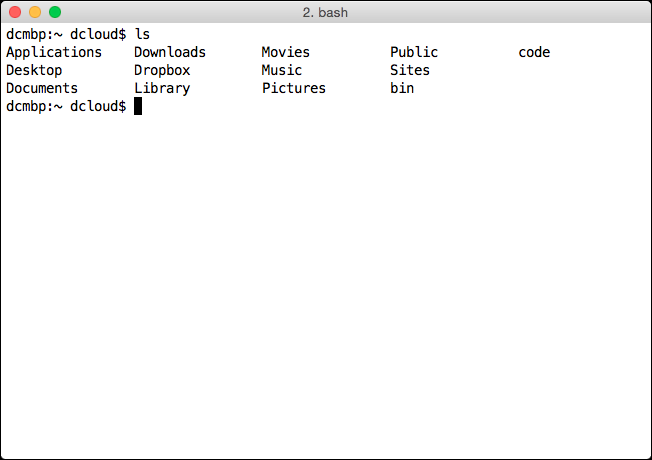
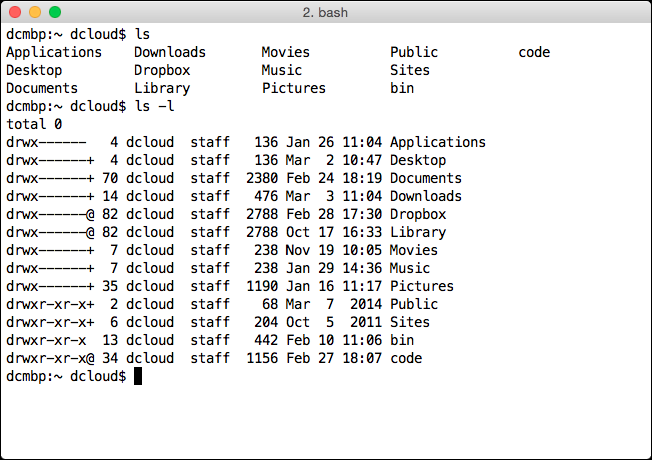
Create a section on using the keyboard and rename others to place them later in the sequence. Update some related images.

Changed region(s): [[0.0, 0.2435, 0.7669, 0.8522], [0.184, 0.213, 0.2761, 0.2435]]

diff --git a/command-line/03-using-the-keyboard.md b/command-line/03-using-the-keyboard.md
@@ -1,0 +1,46 @@
+# Using the keyboard
+
+The keyboard is essential to navigating and controlling the command line. In fact, your mouse or trackpad is probably of little use in the terminal. We'll go over some of basic keyboard shortcuts that get used frequently when navigating or running commands in the terminal. For a more comprehensive list, check out Wikipedia's [Bash article]("https://en.wikipedia.org/wiki/Bash_(Unix_shell)#Keyboard_shortcuts").
+
+**Note:** There are some useful keyboard shortcuts bound to a key referred to as the *Meta* key, which is typically the <kbd>Option/Alt</kbd> key, but some terminal programs, such as the OS X Terminal, don't enable this by default. If <kbd>Option/Alt</kbd> shortcuts aren't working for you, you probably just need to enable the *Meta* key. On OS X, you can [find this setting](http://osxdaily.com/2013/02/01/use-option-as-meta-key-in-mac-os-x-terminal/) enable this under the settings for each profile's "keyboard" section.
+
+
+## General keyboard shortcuts
+
+| Shortcut | What it does |
+| -------- | ------------ |
+| <kbd>Ctrl+c</kbd> | Sends a signal telling the operating system to interrupt (stop and close) the current command (. Say you're running "grepping" (running the `grep` command to search) on a large file and you want it to stop. Press <kbd>Ctrl+c</kbd> to stop `grep` from running. |
+| <kbd>Ctrl+d</kbd> | Similar to <kbd>Ctrl+c</kbd> in that its typical use is to cause something to quit, such as when running an interactive program such as the `python` interpreter. Also closes the current shell if no program is running. |
+| <kbd>Tab</kbd> | Autocompletion in the terminal. Start typing and then hit <kbd>Tab</kbd> to see matching commands and files that match (from the beginning). You can discover a lot of commands this way! |
+| <kbd>Ctrl+l</kbd> | Clears the screen (you can also use the `clear` command) |
+
+### Tab completion example
+
+![Screenshot: Using Tab for autocompletion](images/tab-completion.png)
+
+
+## Keyboard shortcuts for moving the (text) cursor
+
+In the terminal, there is a little block (or box or bar, any of which may be blinking) which typically sits at the end of the line you are typing on. This is your *cursor* (not to be confused with a mouse cursor). You can move that cursor around a line to edit what you've already typed.
+
+| Shortcut | What it does |
+| -------- | ------------ |
+| <kbd>Ctrl+a</kbd> | Move the cursor to the beginning of the line. Useful when you've typed a command with long arguments and you realize there's a typo. You can also use the <kbd>Home</kbd> key. |
+| <kbd>Ctrl+e</kbd> | Move the cursor to the end of the line. You can also use the <kbd>End</kbd> key. |
+| <kbd>Ctrl+f</kbd> | Move the cursor **f**orward one character. You can also use the <kbd>&rarr;</kbd> (right arrow) key. |
+| <kbd>Ctrl+b</kbd> | Move the cursor **b**ackward one character. You can also use the <kbd>&larr;</kbd> (right arrow) key. |
+| <kbd>Option/Alt+f</kbd> | Move the cursor **f**orward one *word* (or word segment), using spaces and punctuation as word boundaries. |
+| <kbd>Option/Alt+b</kbd> | Move the cursor **b**ackward one *word* (or word segment), using spaces and punctuation as word boundaries. |
+
+
+## Keyboard shortcuts for navigating your command history
+
+That's right, the things you've typed in the command line and run (typically) get saved to a history. You can use the up arrow to move backward in history, and (if you've moved back in the history) you can use the down arrow to move forward. You can also search your command history by pressing <kbd>Ctrl+r</kbd>, then typing some letters from a previously used line (the command or options or arguments). Pressing <kbd>Ctrl+r</kbd> again at this point will search further back in history. If you've found the command you want to run, you can press <kbd>Enter</kbd> to run it. You can also press <kbd>Tab</kbd> to select that command line and place the cursor at the end of the line *without* running it. If you just want to cancel your search, press <kbd>Ctrl+c</kbd>.
+
+| Shortcut | What it does |
+| -------- | ------------ |
+| <kbd>Ctrl+r</kbd> | Initiate a search of your command history, from most recent backwards. |
+| <kbd>Ctrl+s</kbd> | Search forward in your command history to more recent commands. Useful after <kbd>Ctrl+r</kbd> a few too many times. |
+| <kbd>Ctrl+c</kbd> | Cancel your search. |
+
+
